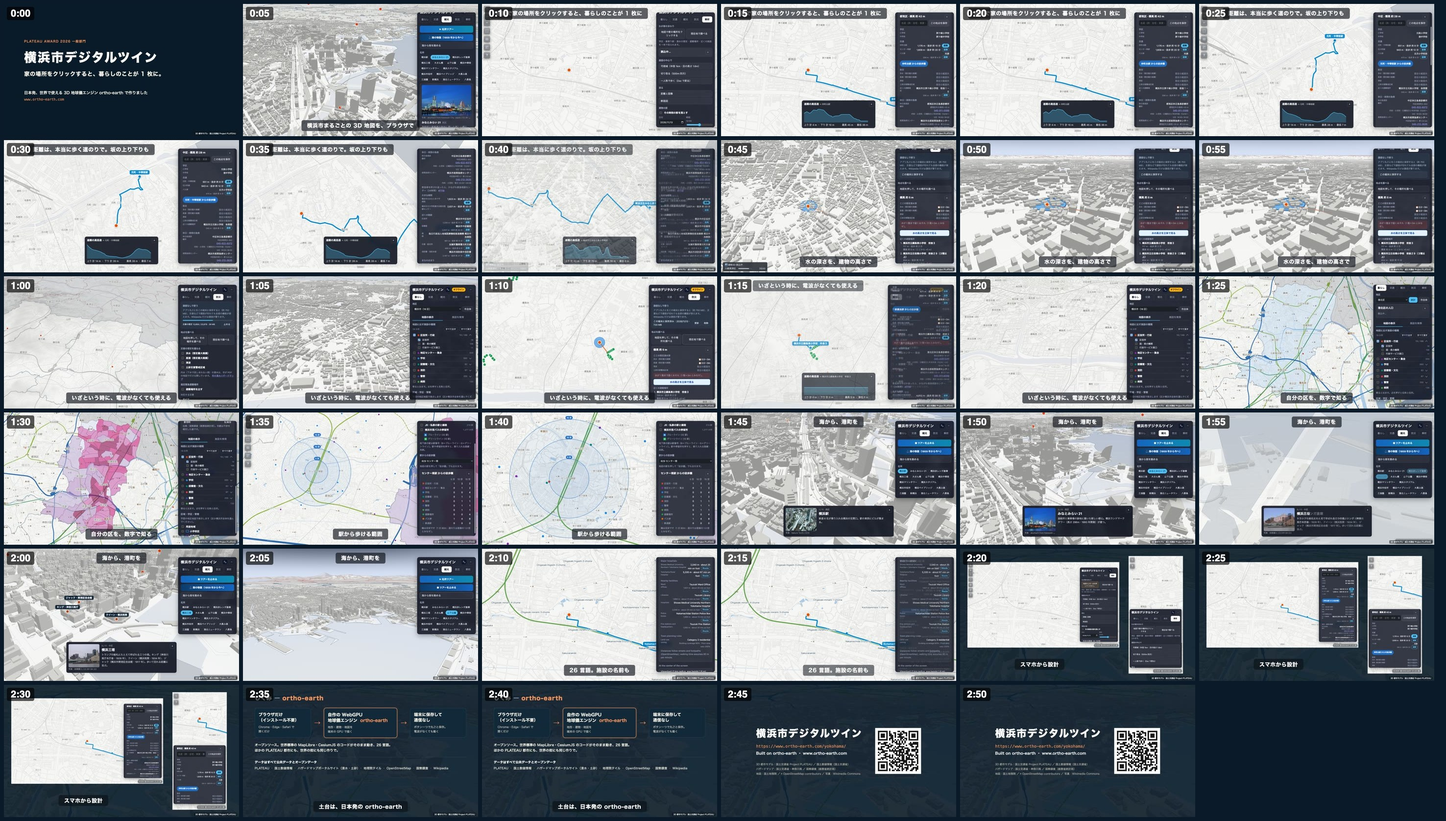
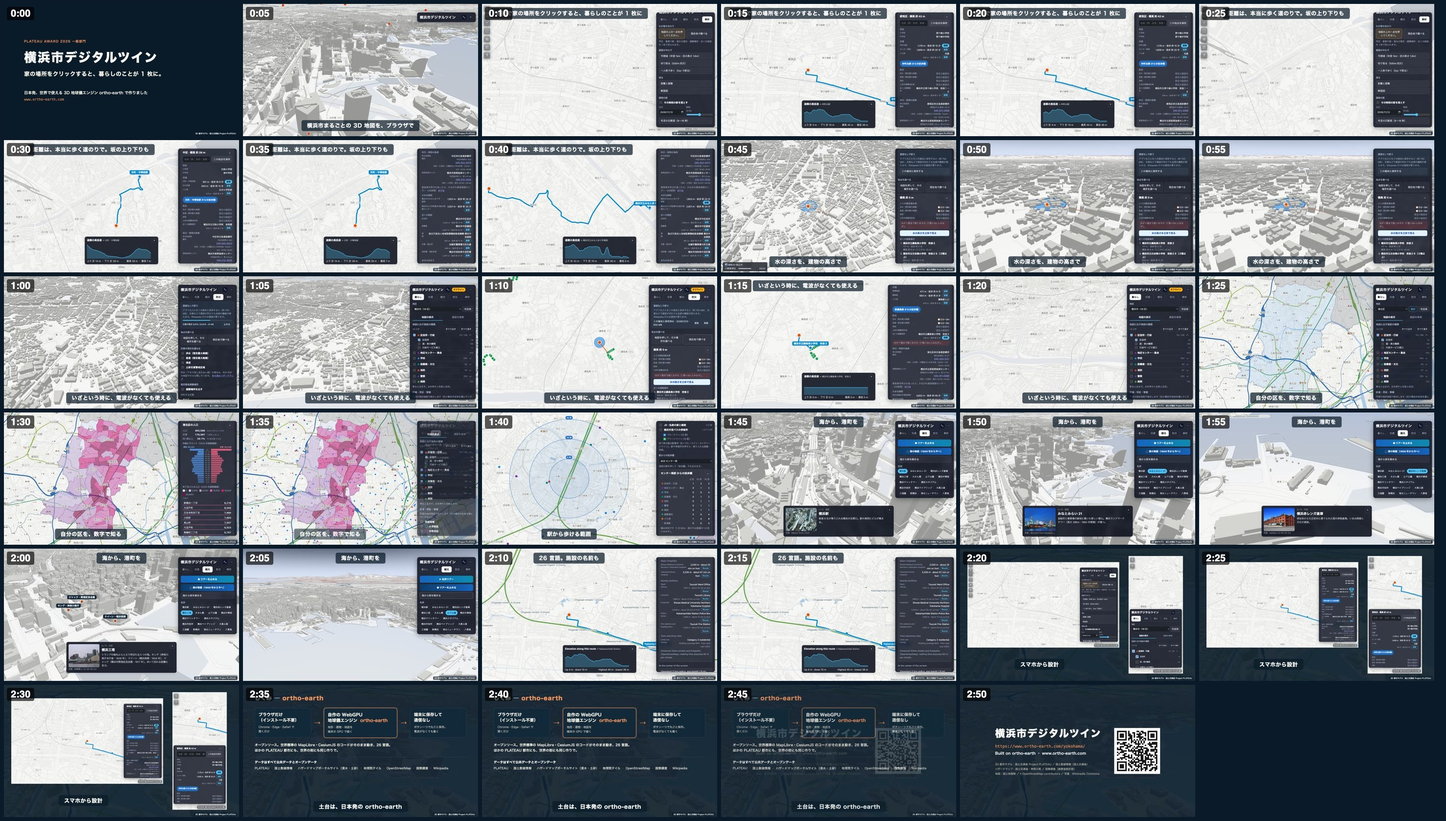
Award video v7 review (updated): new opening, navy captions, 3D behind save, clean tour

diff --git a/award-frames/review/v7-scenes.md b/award-frames/review/v7-scenes.md
@@ -1,26 +1,28 @@
 # 横浜市デジタルツイン 応募動画 v7 — 場面一覧
 
-全長 2:56.8・1920×1080・30fps・音声なし。コマ見本は v7-contact.jpg（5 秒ごと）。
+全長 2:57.4・1920×1080・30fps・音声なし。コマ見本は v7-contact.jpg（5 秒ごと）。
 
 | 開始 | 字幕 | 画面 |
 |---|---|---|
 | 0:00.0 | （表紙）PLATEAU AWARD 2026 一般部門／横浜市デジタルツイン／家の場所をクリックすると、暮らしのことが 1 枚に。／日本発、世界で使える 3D 地球儀エンジン ortho-earth で作りました | 紺の表紙 |
-| 0:04.0 | 横浜市まるごとの 3D 地図を、ブラウザで | 市全体から、みなとみらいへ飛ぶ。超高層ビルが立ち上がる |
-| 0:10.2 | 地図で家の場所をクリックすると、暮らしのことが 1 枚に | 茅ヶ崎南で家の場所をクリック → 家のカード（学区・交通・防災）、仲町台駅までの道順と高低差グラフ |
-| 0:25.2 | 距離は、本当に歩く道のりで。坂の上り下りも | 港の見える丘 → 元町・中華街駅（上り 14 m・下り 28 m）→ カード下半分 → みなと赤十字病院への道順 |
-| 0:42.4 | 水の深さを、建物の高さで | 防災「地点を調べる」綱島東 → 浸水の深さ → 水の高さを立体で → 避難場所 |
-| 0:59.0 | いざという時に、電波がなくても使える | 「この端末に保存する」の進行（早送り） |
-| 1:03.6 | 〃 | 電波なしで開き直し：綱島の 3D、「オフライン」の札 |
-| 1:08.2 | 〃 | 電波なしで「現在地で調べる」（浸水の深さと避難場所） |
-| 1:12.8 | 〃（字幕は上） | 電波なしで、一番近い避難所（綱島東小学校）までの徒歩の道順 |
-| 1:17.4 | 〃 | 電波なしで「綱島」を検索 → 横浜の綱島へ |
-| 1:22.8 | 自分の区を、数字で知る | 港北区の統計（人口ピラミッド・町丁目ごとの人口）と施設の種類 |
-| 1:36.8 | 駅から歩ける範囲 | センター南駅から徒歩 5・10・15 分の輪 |
-| 1:45.6 | 海から、港町を（字幕は上） | 名所ツアー：横浜駅 → みなとみらい → 赤レンガ倉庫（2 倍速、各停留所は #1122 で寄った構図） |
-| 1:57.2 | 〃 | 名所ツアー：横浜三塔（キング・クイーン・ジャックの名札） |
-| 2:04.8 | 〃 | 海から街を眺める |
-| 2:09.4 | 26 言語。施設の名前も | 英語の家のカード（施設名・住所も英語） |
-| 2:17.4 | 〃 | 中国語の家のカード |
-| 2:20.2 | スマホから設計 | パソコンとスマホを並べて同じ家のカード（紺の背景＋透かし） |
-| 2:34.8 | 土台は、日本発の ortho-earth | しくみの図：ブラウザだけ → 自作 WebGPU 地球儀エンジン ortho-earth → 端末に保存して通信なし／使っているデータ |
-| 2:46.8 | （終わりの画面） | 横浜市デジタルツイン・URL・Built on ortho-earth・QR・データの出典 |
+| 0:04.0 | 横浜市まるごとの 3D 地図を、ブラウザで | パネルを畳み、みなとみらいの超高層ビルの周りをゆっくり回る |
+| 0:10.8 | 地図で家の場所をクリックすると、暮らしのことが 1 枚に | 茅ヶ崎南で家の場所をクリック → 家のカード（学区・交通・防災）、仲町台駅までの道順と高低差グラフ |
+| 0:25.8 | 距離は、本当に歩く道のりで。坂の上り下りも | 港の見える丘 → 元町・中華街駅（上り 14 m・下り 28 m）→ カード下半分 → みなと赤十字病院への道順 |
+| 0:43.0 | 水の深さを、建物の高さで | 防災「地点を調べる」綱島東 → 浸水の深さ → 水の高さを立体で → 避難場所 |
+| 0:59.6 | いざという時に、電波がなくても使える | 綱島の 3D の街の上で「この端末に保存する」の進行（早送り） |
+| 1:04.2 | 〃 | 電波なしで開き直し：綱島の 3D、「オフライン」の札 |
+| 1:08.8 | 〃 | 電波なしで「現在地で調べる」（浸水の深さと避難場所） |
+| 1:13.4 | 〃（字幕は上） | 電波なしで、一番近い避難所（綱島東小学校）までの徒歩の道順 |
+| 1:18.0 | 〃 | 電波なしで「綱島」を検索 → 横浜の綱島へ |
+| 1:23.4 | 自分の区を、数字で知る | 港北区の統計（人口ピラミッド・町丁目ごとの人口）と施設の種類 |
+| 1:37.4 | 駅から歩ける範囲 | センター南駅から徒歩 5・10・15 分の輪 |
+| 1:46.2 | 海から、港町を（字幕は上） | 名所ツアー：横浜駅 → みなとみらい → 赤レンガ倉庫（2 倍速、各停留所は #1122 で寄った構図） |
+| 1:57.8 | 〃 | 名所ツアー：横浜三塔（キング・クイーン・ジャックの名札） |
+| 2:05.4 | 〃 | 海から街を眺める |
+| 2:10.0 | 26 言語。施設の名前も（字幕は上） | 英語の家のカード（施設名・住所も英語） |
+| 2:18.0 | 〃 | 中国語の家のカード |
+| 2:20.8 | スマホから設計 | パソコンとスマホを並べて同じ家のカード（紺の背景＋透かし） |
+| 2:35.4 | 土台は、日本発の ortho-earth | しくみの図：ブラウザだけ → 自作 WebGPU 地球儀エンジン ortho-earth → 端末に保存して通信なし／使っているデータ |
+| 2:47.4 | （終わりの画面） | 横浜市デジタルツイン・URL・Built on ortho-earth・QR・データの出典 |
+
+字幕の帯は紺（rgba(10,26,40,.72)）。
